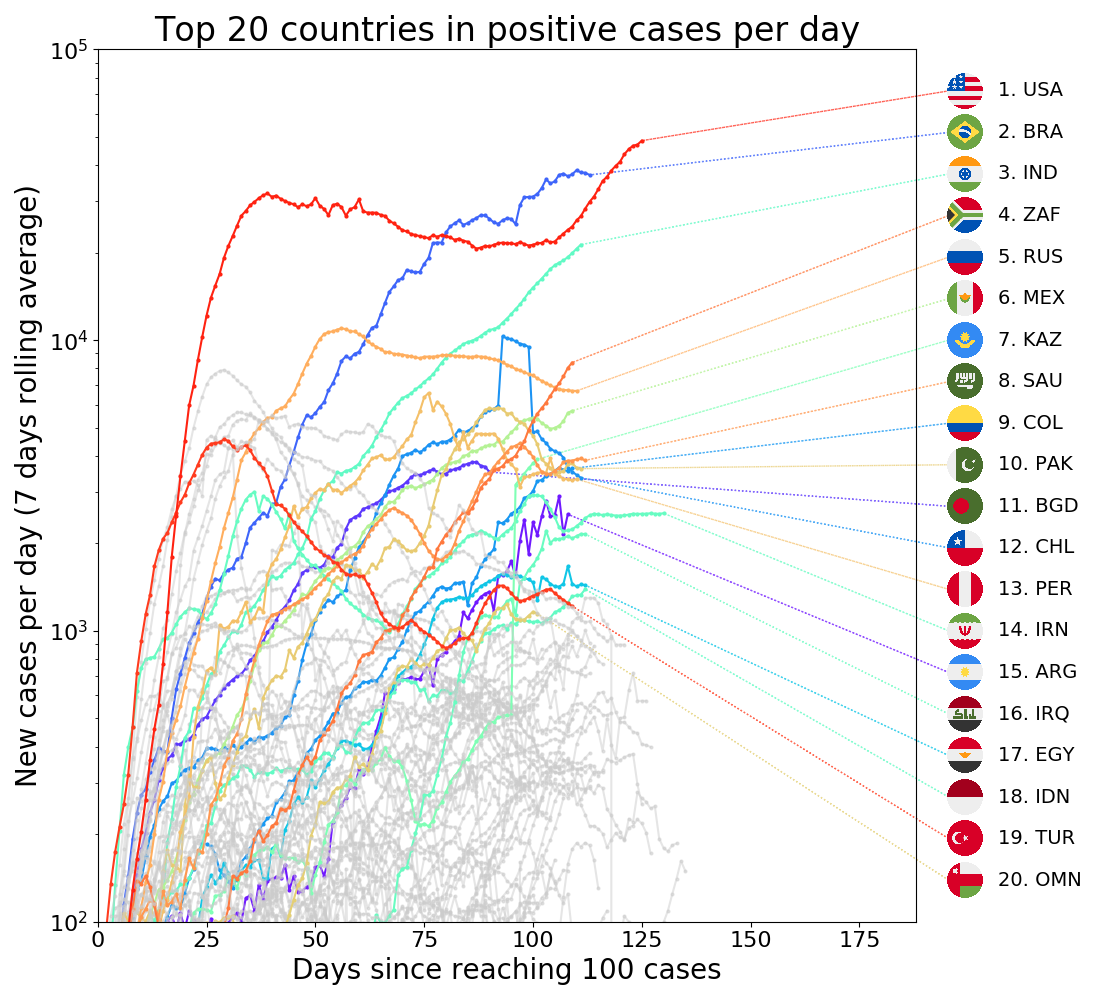
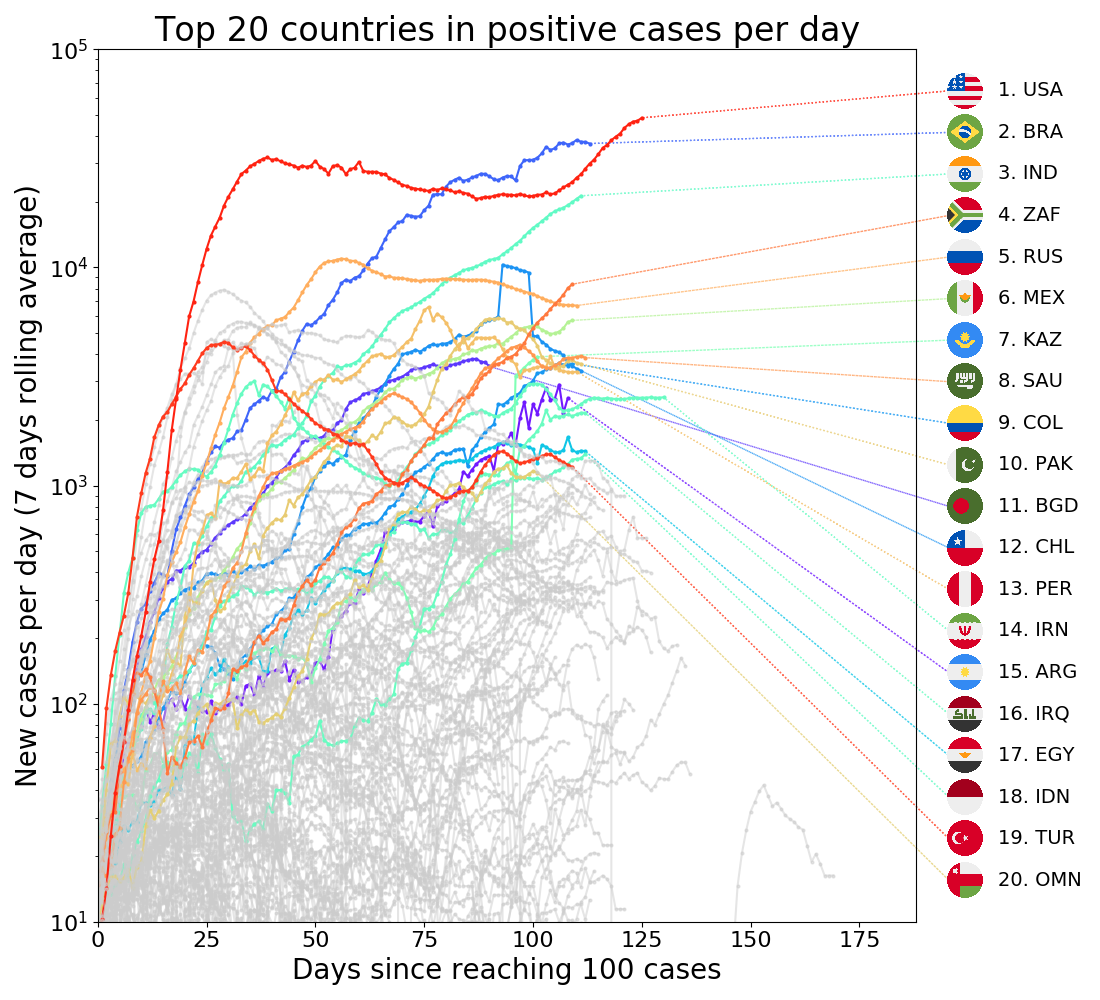
Countries Rolling average per day

diff --git a/src/countries_eda.py b/src/countries_eda.py
@@ -100,7 +100,7 @@ plt.tight_layout()
 figsaveandclose(fig, output="../figures/eda_ecdc_countries_total_cases.png")
 
 maxy = 1e05
-miny = 100
+miny = 10
 hlcountries = world_df.sort_values('dateRep', ascending=True).groupby('countriesAndTerritories')['cases_rolling'].last().sort_values(ascending=True).index[-topn:].values
 legendys = np.logspace(np.log10(miny), np.log10(maxy), len(hlcountries)+2)
 fig, axes = plt.subplots(ncols=1, nrows=1, figsize=(11, 10))
@@ -234,7 +234,7 @@ for (i, country) in enumerate(countries):
     sizes = 2
     axes.plot(deltadays, yval, 'o-', c=color, markersize=sizes, markeredgecolor=color)
 local_axes_formatting(axes, "Days since reaching 10 deaths", "Deaths per day (7 days rolling average)", xlim1=0, xlim2=maxx, ylim1=miny, ylim2=maxy, logx=False, fs=20)
-axes.set_title('Top 20 countries in new reported deaths per day', fontsize=24)
+axes.set_title('Top 20 countries in reported deaths per day', fontsize=24)
 plt.xticks(fontsize=16)
 plt.yticks(fontsize=16)
 plt.tight_layout()
